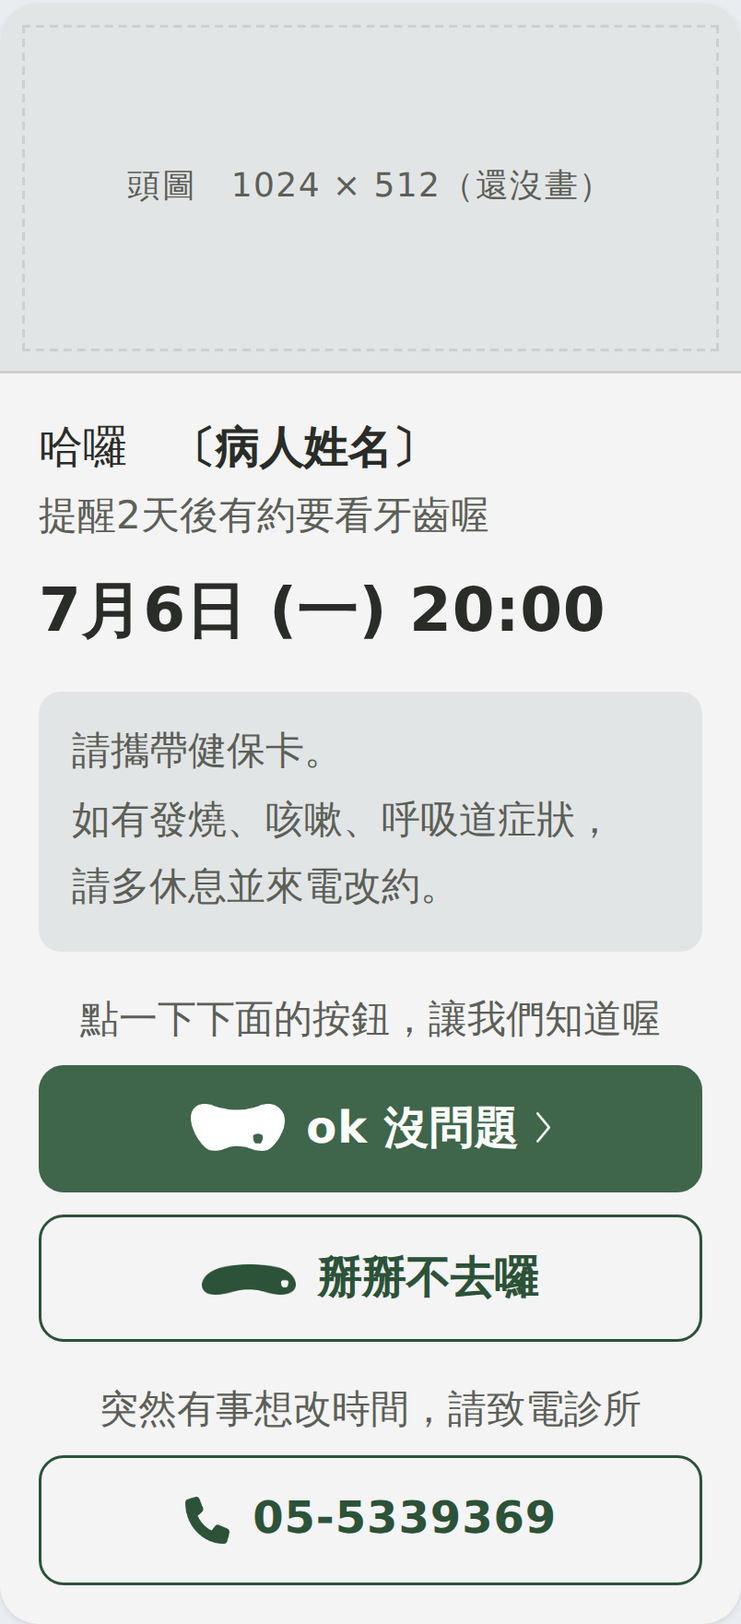
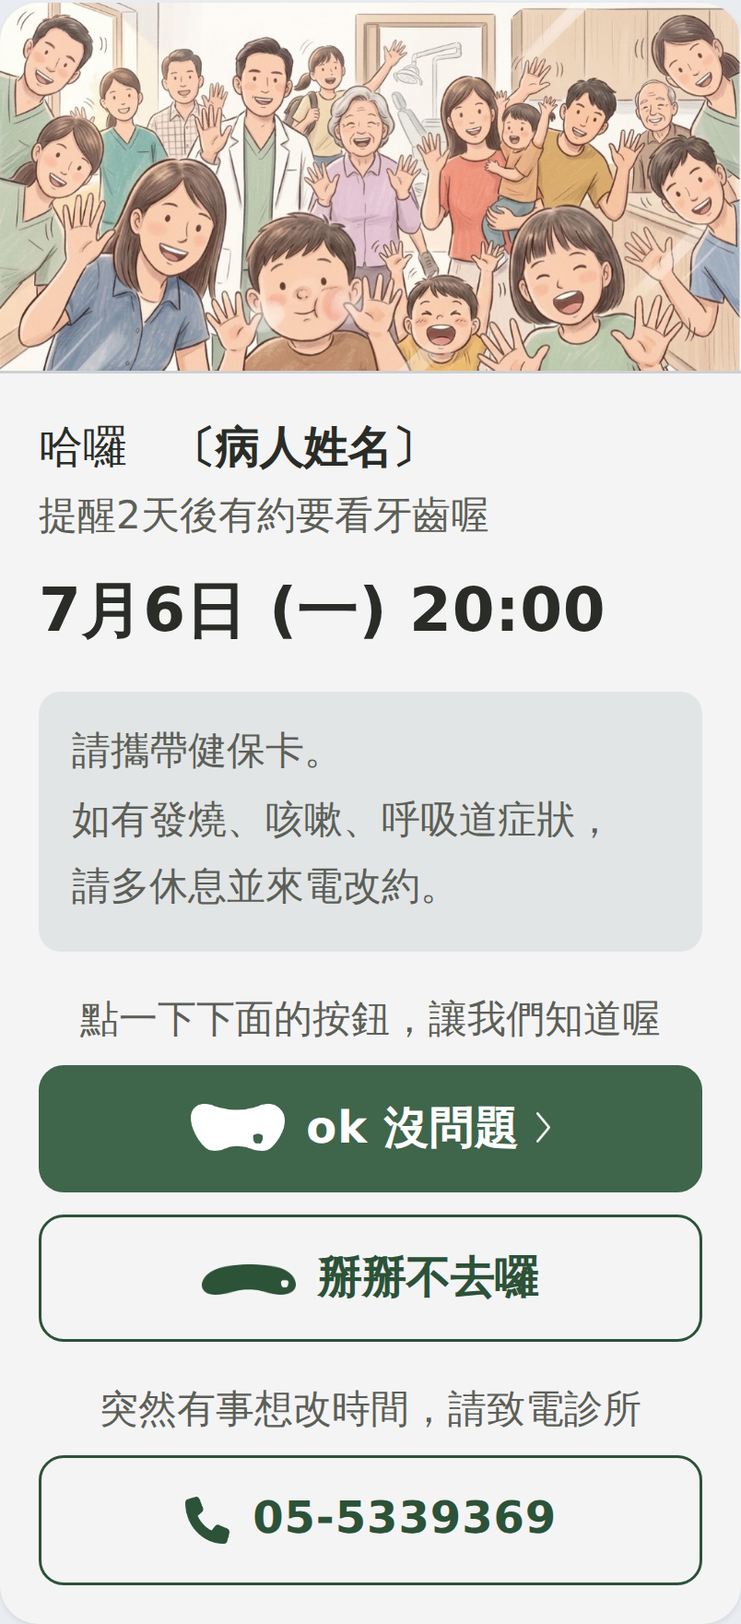
提醒卡：頭圖選定並接上（候診間一群人揮手）
使用者選定的圖，16:9 原檔 → 1024×512（＝ LINE 對 Flex 的 image 的上限）。

裁法是上 16 / 下 64 不是對稱的 40/40，掃過原檔的墨才定的：
・上面幾乎沒有餘裕 —— 深墨（人物線稿）從第 43 列就開始，對半裁只剩 3 列、
  頭會貼著上緣；裁 16 留 27 列 ＝ 成品的 4.1%，和原檔的 5.7% 同一個量級。
・下面每一列都是墨，但那是身體與手不是臉 —— 最低的下巴在第 660 列上下，
  裁到第 704 列碰不到任何一張臉，收緊反而讓臉在 268px 上大一點。
四個候選縮到真實的 268px 並排比過，只有 40/40 看得出頭髮被切，
其餘三個分不出來，所以判準回到「餘裕」與「臉的大小」這兩個量得出來的東西。

守門不照抄 bind-done 那支：那張圖四邊都是紙底，拿「邊緣亮度 vs 紙底」
就抓得到烘進去的白框；這一張四邊全是墨，同一道會一直誤報。改成四道 ——
長寬比、深墨離上緣 ≥12 列、邊緣要「又均勻又亮」才算白框、不超過 1024×1024。

width/height 屬性一定要寫：不寫的話圖還沒下載完高度是 0，
面板會報出一個比實際矮 134px 的卡片。

五個寬度（430／393／390／375／360）逐項和佔位符那一版相同：
卡片 268.0、高 585.9、頭圖 268×134、孤字 0、水平溢出 0、JS 錯誤 0、
兩組「一句話→按鈕」仍是 17.0/8.0。三支守門全過。

Claude-Session: https://claude.ai/code/session_01UiTa6aiLj4tvM4QQAkTm2r

Changed region(s): [[0.0, 0.0, 1.0, 0.2499]]

diff --git a/preview/line-remind/index.html b/preview/line-remind/index.html
@@ -115,18 +115,16 @@ h1{font-size:1rem;font-weight:700;letter-spacing:.02em}
      合成後亮度相同）。細節見 bind-done 那一頁與 channels/README 第 19-18 節。 */
 .pv-new{background:var(--card)}
 /* 頭圖：Flex 的 hero，size:full ＋ aspectRatio 2:1 ＝ 卡片滿寬、高度是寬的一半。
-   ⚠⚠ **圖還沒畫，這裡先把位置預留出來**（使用者 2026-09-04：「先預留圖卡的位置」）。
-     虛線那一塊就是 1024×512 會佔掉的地方 —— 實測 134px，佔整張卡的兩成。
-   ⚠ 佔位符的字用 CSS 的 content 產生，**不是文字節點** —— 不然它會被算進行數、
-     孤字判斷與紅線掃描裡（同 card-more-button 那一輪「繼續讀」那三個字的理由）。
-   ⚠ 真的接上圖之後，width/height 屬性一定要寫（＋ aspect-ratio）：不寫的話圖還沒
-     下載完高度是 0，面板會報出一個比實際矮 134px 的卡片。 */
-.pv-new .hero{display:block;width:100%;aspect-ratio:2/1;background:var(--paper);
-  border-bottom:1px solid var(--rule)}
-.pv-new .hero.ph{display:flex;align-items:center;justify-content:center;
-  outline:1px dashed var(--rule);outline-offset:-9px}
-.pv-new .hero.ph::before{content:"頭圖　1024 × 512（還沒畫）";font-size:12px;
-  color:var(--ink-soft);letter-spacing:.04em}
+   ✅ 使用者 2026-09-04 選定（「圖片選好了」）：候診間裡一群人在揮手 ——
+     病人、家屬、小孩、長輩與診所的人擠在同一個畫面裡，站上那套手繪語彙。
+     成品 hero-remind.jpg（1024×512），產圖 node drafts/channels/remind-hero-crop.mjs。
+   ⚠⚠ **這一則每次約診都會送一次**，同一個人一年看很多次 —— 所以它要**耐看**，
+     不能有太強的梗（綁定完成那張〈創造亞當〉是一輩子只看一次，條件不一樣）。
+     一群人揮手沒有笑點可以用完，這一點是對的。
+   ⚠⚠ **width/height 一定要寫**（＋ aspect-ratio）：不寫的話圖還沒下載完高度是 0，
+     面板會報出一個比實際矮 134px 的卡片。 */
+.pv-new .hero{display:block;width:100%;height:auto;aspect-ratio:2/1;
+  background:var(--paper);border-bottom:1px solid var(--rule);object-fit:cover}
 .pv-new .top{display:flex;align-items:center;gap:8px;padding:11px 14px 10px;
   border-bottom:1px solid var(--rule)}
 .pv-new .top img{width:20px;height:20px;border-radius:50%;display:block}
@@ -389,11 +387,11 @@ h1{font-size:1rem;font-weight:700;letter-spacing:.02em}
     text: { name: "只有字" },
     drop: { name: "拿掉" }
   };
-  /* 頭圖：使用者 2026-09-04「還是做個圖卡吧　比較趣味　先預留圖卡的位置」。
-     ⚠ 圖還沒畫，先留位置（虛線那一塊 ＝ 1024×512 會佔掉的高度）。
+  /* 頭圖：使用者 2026-09-04「還是做個圖卡吧　比較趣味　先預留圖卡的位置」，
+     同日稍晚選定了圖（「圖片選好了」「用這張圖片　合併成通知提醒頁面」）。
      ⚠⚠ 有頭圖時**卡片頂端那一行診所名就拿掉**（同綁定完成那一張：頭圖自己就是識別）；
        切到「不放圖」時它會回來，識別不會整個消失。 */
-  var HERO = { y: { name: "預留位置" }, n: { name: "不放圖" } };
+  var HERO = { y: { name: "放頭圖" }, n: { name: "不放圖" } };
 
   /* ---- 「點下去的感覺」三條尺（2026-09-04 深夜第四輪）------------------
      ① 叫他點的那一句。⚠ 文字是**我擬的**，這張卡其餘每一個字都是你寫的，
@@ -483,7 +481,7 @@ h1{font-size:1rem;font-weight:700;letter-spacing:.02em}
   function newHtml() {
     var h = '<div class="pv-hc pv-new" id="pv-body">'
       + (hr === "y"
-          ? '<div class="hero ph"></div>'
+          ? '<img class="hero" src="hero-remind.jpg" width="1024" height="512" alt="">'
           : '<div class="top"><img src="../../assets/icon-192.png" alt=""><b>芳仁牙醫診所</b></div>')
       /* ⚠⚠⚠ `--ctagap` 要設在**共同的父層**，不能設在那一句自己身上 ——
            用它的規則是 `.cta + .btn`（作用在**兄弟**上），而自訂屬性**只往下繼承、
@@ -981,12 +979,18 @@ h1{font-size:1rem;font-weight:700;letter-spacing:.02em}
       + "<br>③ 被自動取消時<b>會不會再發一則通知病人</b>（不通知的話他是到了門口才知道）。"
       + "<br>⚠ 還有一題舊的：<b>那顆確認鈕現在診所會看嗎？</b>"
       + "<hr>"
-      + "⚠ <b>頭圖還沒畫，先把位置預留出來</b>（你：「先預留圖卡的位置」）——"
-      + "虛線那一塊就是 <b>1024×512</b> 會佔掉的高度，面板上有實測。"
-      + "畫法照綁定完成那一張的流程（Gemini、你自己跑），提示詞另開一輪。"
-      + "<br>⚠⚠ 一個和綁定完成<b>不一樣</b>的條件：這一則<b>每一次約診都送一次</b>，"
-      + "同一個人一年會看到很多次 —— <b>要耐看，不要有太強的梗</b>"
-      + "（綁定完成那一張只在綁定當下出現一次，可以更用力）。"
+      + "✅ <b>頭圖已經接上了</b>（你 2026-09-04：「圖片選好了」）—— 候診間裡一群人在揮手，"
+      + "病人、家屬、小孩、長輩和診所的人在同一個畫面裡。"
+      + "成品 <code>hero-remind.jpg</code>（<b>1024×512</b>，＝ LINE 對 Flex 的 image 的上限），"
+      + "產圖 <code>node drafts/channels/remind-hero-crop.mjs</code>。"
+      + "<br>⚠ 原檔是 16:9，收成 2:1 要拿掉 80 列，<b>裁的是上 16 / 下 64 不是對稱的 40/40</b>："
+      + "上面深墨（人物的線稿）從第 43 列就開始，對半裁只剩 3 列、頭會貼著上緣；"
+      + "下面每一列都是墨，但那是<b>身體和手不是臉</b>（最低的下巴在第 660 列上下），"
+      + "收緊反而讓臉在 268px 上大一點。四個裁法縮到真實的 268px 並排比過。"
+      + "<br>⚠⚠ 一個和綁定完成<b>不一樣</b>的條件，選圖時就看著它："
+      + "這一則<b>每一次約診都送一次</b>，同一個人一年會看到很多次 —— <b>要耐看，"
+      + "不要有太強的梗</b>（綁定完成那一張只在綁定當下出現一次，可以更用力）。"
+      + "一群人揮手沒有笑點可以用完，這一點是對的。"
       + "<br>⚠ 有頭圖時卡片頂端那一行<b>診所名就拿掉了</b>（同綁定完成：頭圖自己就是識別）。"
       + "切到「不放圖」它會回來。"
       + "<hr>"

diff --git a/CLAUDE.md b/CLAUDE.md
@@ -2298,7 +2298,7 @@ topics/<spec>/         ← 產出。**不要手改**，重跑就沒了
 | 招呼圖卡的頭圖 | `drafts/line-hello/`（`generate.mjs`／`bubble.mjs`／`README.md`）→ `preview/line-hello/hero-zenmaru.jpg`，規格頁 `/preview/line-hello/`。✅ 定案 |
 | **綁定完成** | ✅ **2026-09-04 定稿**（使用者：「最後定稿的是這個」）：**Ⓗ 你整理的・圖卡 ＋ 有頭圖 ＋ 改約那一塊用淡藍 `.10` 的淡底**。Flex 的 JSON 在 **`drafts/channels/bind-done-card.json`**，規格頁 `/preview/line-bind-done/`（**切換條已拿掉**），守門 **`node drafts/channels/check-bind-done.mjs`**，圖片兩張（`node drafts/channels/bind-done-png.mjs`，加 `--chat` 出第二張）：`shot-bind-done.png`（卡片本身，804×1857，3×）與 **`shot-bind-done-chat.png`**（**在 LINE 裡長什麼樣的模擬**，1206×2427，3×）。⚠ 模擬那張要用 **430 寬**拍 —— 429 以下手機框會貼齊頁面兩邊、圓角與左右框線被拿掉。⚠ **換視窗寬度截圖之前要先量「要展示的那個東西有沒有跟著變」**：實測 390 與 430 卡片都是 **268.0px**，只有周邊留白差 12px（第 **19-21** 節）。⚠ **Ⓖ 沒有真的落選** —— 它是「廠商送不出 Flex Message」時的退路（同一份內容一字不差），規格頁最底下仍然畫著它。⚠⚠ **兩塊淡底在 JSON 裡要寫合成後的實色**（警示 `#EEE5E6` ＝ 磚紅 .09、改約 `#E2E8EF` ＝ 淡藍 .10），不要寫半透明。⚠ **沒有拆成 body ＋ footer**（招呼卡那樣拆是因為中間有 separator，這一張兩塊方塊之間刻意沒有分隔線）。推導在第 **19-20** 節。以下是走到定稿的過程 —— **提案中**：`/preview/line-bind-done/`（**八案**，2026-09-03 開；**Ⓖ／Ⓗ 是使用者 2026-09-04 自己整理的那一份**，Ⓖ 純文字、Ⓗ 同一份做成圖卡，帶進三件新事實：提醒**要回覆確認**、**24 小時沒回應系統會自動取消**並遞補、家人綁定**要洽櫃檯**）。推導在 `drafts/channels/README.md` **第十九節**（09-04 那一輪在 **19-12**），定稿文字在 `drafts/line-auto-reply/README.md` 第 24-2 節「貳」。⚠ 使用者挑完才寫 Flex 的 JSON。⚠⚠ **時間的說法 2026-09-04 定案「看診前 48 小時」**，切換條上那一排已經收掉；**但招呼圖卡仍然寫「看診前2天」**（使用者自己逐字寫的、已定案），兩則目前不一致，**要統一得他點頭**。⚠ 這個 48 小時和「看診日 2 天前（不含假日）」是兩個不同的數字（提醒時機 vs 改約期限），**不要順手改成一致**。⚠⚠ 2026-09-04 再兩件（第 **19-13** 節）：「這裡沒有專人即時回覆訊息」**搬到改約那一段前面**（它是「為什麼要打電話」的前提）；24 小時那一段接上一把**強調**的尺（`?e=`），**兩種容器的四格不一樣** —— LINE 的**純文字訊息沒有粗體也沒有顏色**，只剩空行與記號，Flex 圖卡才做得到加粗／換色／淡底方塊。⚠⚠ 2026-09-04 再兩件（第 **19-15** 節）：**圖卡那一側定案「淡底方塊」**（切換條上收掉、寫死；純文字那一側還沒定案、那一排還在）；**改約那一句換成使用者的寫法**「約診更改或取消，最晚請於看診日前 2 天（不含假日）、於診所開診時段來電變更」——「最晚」把期限講死，**「開診時段」取代「週一至週五」**（國定假日休不休診還沒問到，寫「開診時段」就不必替診所答那一題）。⚠ 其餘六案仍是舊寫法，**刻意沒動**，等他挑完哪一案再統一。⚠⚠ 2026-09-04 再一件（第 **19-16** 節）：**改約那一段也做成淡底方塊**，底色四選一（紙灰／品牌綠／深綠松／同上面），**兩塊之間那條分隔線拿掉了**。⚠⚠ **綠與深綠松是 `.16` 不是 `.09`** —— 量過，九分之一濃時四個底色全部落在 **1.1 階**之內（L\* 90.6~91.7），**四格長得一模一樣、那把尺沒有意義**；`.16` 才讀得出是綠的，代價是比上面那塊磚紅重約 4 階。**通則：一把尺給出去之前先算四格彼此差多少，差不出來的尺比沒有尺還糟**。⚠⚠ 2026-09-04 再三件（第 **19-17** 節）：**加了淡藍、深綠松那一格拿掉**（深綠松 `.16` 是 L\* 86.2・彩度 2.5，和品牌綠的 87.6・2.7 分不出來）；淡藍**不能用官方色票那支** `#3C596B`（`.16` 彩度只剩 2.5，讀起來是灰的），取的是**齒顎矯正那支套色** `#4478b5`（`.16` 彩度 6.3，站上唯一淡開之後還讀得出是藍的）——**已知取捨：那是矯正的顏色**，但這一則不在站上也不在任何科別頁裡，不會和標記撞在一起。**通則的第二半：每一格還要撐得起它自己的名字，判準是彩度不是色相。**⚠ **數字前後那幾個半形空格拿掉了**（我照站上內文的習慣加的，他自己寫的那一份沒有），「（不含假日）」的**全形括號換成半形**（全形一組吃掉約 19px）。⚠⚠ **Ⓗ 那兩段之間的空行換成段落間距**：`\n\n` 是一整行 **24.5px**，拆成兩個 `text` ＋ 一個 `margin` 是 **8px**。**通則：Flex 裡兩段的距離有兩把工具，不要只會用空行**（`margin` 有 xs 4 ~ xxl 24 六階）；**Ⓖ 純文字那一側沒有這把工具，只有空行**。⚠⚠ 2026-09-04 再兩件（第 **19-18** 節）：**淡藍收到 `.10`**（使用者：「淡藍色看過去比上面的淡紅色還濃　要調成一樣的」）——「一樣濃」＝ **兩塊合成到卡色之後的 L\* 相同**，基準是磚紅 `.09` 的 L\* 91.6，反解出 a = .101。⚠⚠⚠ **而只有藍做得到，品牌綠與深綠松兩格因此都拿掉了**：壓到同一個 L\* 之後剩下的彩度是**淡藍 4.06**／磚紅 3.29／官方藍 1.50／品牌綠 1.37／深綠松 1.19，而**紙灰自己就是 1.18** ——「等重的綠」畫出來就是紙灰那一格。尺剩三格（紙灰／淡藍 .10／同上面）。**通則的第三半：「看得出顏色」與「和旁邊等重」是兩個要求，只有夠飽和的色相同時滿足得了；判斷方法是把每一支色壓到目標 L\* 再看誰的彩度還在。**⚠ **Ⓗ 那一對全形「」拿掉了，改成把選單名加粗**（使用者：「「」的全形也有很大的空格」）——`「`／`」` 各佔一整個全形字寬但墨只有角落那一撇，一對吃掉 **28.3px**（那一行 183.8 → 155.5）。Flex 就是一個 `span` 加 `weight: bold`，顏色不動。⚠⚠ **Ⓖ 純文字那一對留著，不是漏改** —— 純文字沒有粗體，拿掉引號就標示不出那是選單名。⚠ 實作：`<b>` **不可以寫進資料裡**（`spec()` 要拿同一份字串比對孤字），資料維持純文字、多一個 `strong` 欄位，`render()` 那一層才包。⚠ 2026-09-04 **存成圖片了**（第 **19-19** 節）：`node drafts/channels/bind-done-png.mjs` → `preview/line-bind-done/shot-card-{pa,bl,br}.png`（圖卡三格底色）、`shot-text.png`（純文字泡泡）、`shot-cards.png`（三格並排）。⚠⚠ **出在 `preview/` 不是 `drafts/`** —— drafts 進不了 `_site`，而使用者要的是「也存在網路上」（招呼卡那支 `card-png.mjs` 出在 drafts/，兩支落點不同是刻意的）。⚠⚠ **拍的是提案頁自己那張卡**，所以**那一頁改了就要重跑**，不然圖會開始說謊 |
 | 綁定完成的頭圖 | ✅ **2026-09-03 第四版定案**（使用者：「很不錯，就用這個圖吧」）—— 成品 `preview/line-bind-done/hero-bind.jpg`（**1024×512**，`node drafts/bind-done-hero-crop.mjs`，原檔 `drafts/bind-done-v4-src.jpg`），已接進提案頁 Ⓑ 那一案。定稿提示詞與逐輪推導在 **`drafts/line-bind-done-prompt.md`** —— 〈創造亞當〉的診間版（Gemini 出圖，使用者自己跑，走了四版）。⚠⚠⚠ **不要把原作那個「上帝在上」抹平成兩人等高** ——第一版就是這樣被退回的（寓意沒了，而且兩個成年人同高對指會被讀成醫病關係不單純）：**一側是一團人、飄著、比較高，另一側一個人躺著、比較低**，這個不對等就是那張畫的梗。⚠ 但**不對等只能靠位置給、不可以靠肌肉張力給** —— 第三版把病患的手寫成鬆垮的，整個人看起來像喝醉（＝麻醉或鎮靜的聯想）。⚠ 臉一律照站上那一套（有膚色、眉毛、鼻子、有表情的嘴），**不隨風格參考圖走**。逐輪紀錄與六條驗收在那一份，通則在 ILLUSTRATION.md 第十三節 |
-| **提醒卡（看診前 48 小時）** | ⏳ **2026-09-04 開了提案頁 `/preview/line-remind/`（兩案 ＋ 四把尺，還沒定案）**。⚠⚠ **文案 2026-09-04 晚間換成使用者自己寫的**（哈囉／病人名字／提醒2天後有約要看牙齒喔／日期／按鈕「ok 沒問題」＋logo／須知只留兩條），**加了頭圖但圖還沒畫、先預留位置**。⚠⚠⚠ **取消鈕那一題的分析結論：建議留，但維持文字鈕** —— 真正重要的理由只有一個：**拿掉之後「來不了」和「沒看到訊息」在診所眼裡會變成同一件事**（24 小時沒回應一律自動取消），而診所對這兩種人的處理本來就不一樣（重要療程會打電話追、定期檢查就當他不想來）—— 那顆按鈕是目前唯一分得出來的東西。次要理由：誤按沒有回頭路。**「兩顆會稀釋主要動作」成立，所以留成文字鈕不是實心第二顆**（現況那一顆本來就是文字鈕，那一點現況是對的）。⚠⚠ **「須知寫來電改約、底下又有按鈕」不是二選一** —— 解法是把兩件事講成兩件事：**按鈕＝告訴我們你不會來、電話＝重新約時間**，寫成一前一後就不打架了。**通則：兩個管道看起來打架時，先問它們是不是同一個動作。**⚠⚠⚠ **「2天後」有事實風險**：真截圖那一則是 7/3（五）送、約診 7/6（一）＝ **3 天**，寫死「2天後」對那位病人是錯的，週一週二的約診都會對不上。三條路（維持但要廠商保證固定／**把天數拿掉**，日期本來就在下一行且最大／讓系統填）已經列給他挑 —— **沒有自己改掉他的字**。**通則：使用者寫的字裡有一個會出錯的事實時，照寫、把證據攤開、給選項，不要自己改也不要不講。**⚠⚠ **他把「戴口罩」拿掉了**（現況第 1 條有），照做了但那是**政策改變不是文案精簡，要醫師點頭**。⚠ **主鈕做成可點的 box 不是 `button`**（Flex 的 button 不支援圖示），logo 用招呼卡已產好的 `mark-white.png`（34px），沒有另產一份。⚠ **有頭圖就把頂端那行診所名拿掉**（同綁定完成），切到不放圖它會回來。⚠⚠ **開場那一句要拆兩行**（「哈囉　〔名字〕」／「提醒2天後…」）—— 他原句把變數夾在中間，名字一長會把「喔」擠成孤字；拆開之後 8 個字的名字都還在寬度內。**用字一個都沒改。**⚠ 量到：現況 615px(73%)／新版全留**含頭圖 789px(94%)**／全砍 378px(45%)，頭圖自己就 134px。⚠⚠ 頭圖畫的時候有一個和綁定完成不一樣的條件：**這一則每次約診都送一次，同一個人一年看很多次 —— 要耐看，不要有太強的梗**。⚠⚠ 這一頁是使用者約好要定**版型與那顆確認的按鈕**的地方（第 19-12 節），定完再回頭看綁定完成那一則要不要多寫一句。推導在 `drafts/channels/README.md` **第二十節**。⚠⚠⚠ **`drafts/channels/reminder-card.json` 是 2026-09-02 的舊版，不要拿給廠商** —— 它沒有 24 小時那一段、改約那句是舊寫法、日期還帶年份；**使用者挑完才會重寫**。⚠⚠ **24 小時自動取消那件事是「這一張卡」的事**：那 24 小時是從這一則送出的那一刻開始算的，綁定完成那一則只是先告訴他有這回事 —— 所以非寫在提醒卡上不可，不然病人是在不知情的狀態下被計時。⚠⚠ **現況那一張是從使用者 2026-09-04 的真截圖逐像素量出來重做的**（內文 16px、姓名與日期 22px、內距 22px、標題列 43.7、按鈕 60、「⚠ 就診須知 ⚠」**靠右不是置中**）——⚠⚠⚠ **第一版是「照描」的，字級全部猜小了（內文猜成 14、內距猜成 13），把現況量成 438px，結論整個錯**。**通則：照截圖描一份和量一份是兩件事** —— 描出來的很像，數字全錯，而後面每一個判斷都建立在那些數字上。重量之後：現況 615px（73%）、新版全留 696px（82%）、全砍 460px（55%），**新版只多 81px**。⚠⚠⚠ **那張截圖是診所端的後台不是病人手機**（標題是病人名字、有「使用手動聊天」與「已讀」），所以它的卡片 348px **不是病人看到的寬度**；⚠ 而 **268 這個數字我們從來沒有在病人手機上量過**（是招呼卡那一輪的工作值）—— 方向是安全的（真的更寬只是保守），但**要一張病人手機的截圖才收得掉**。⚠⚠⚠ **它不是 48 小時送的**：截圖上 7/3（五）送、約診 7/6（一）＝ 3 天。48 小時前是週六、診所沒開 —— 可能是**系統會避開休診日**（那 19-12 那題有一半有答案了），也可能是**固定 3 天前**。**一個樣本推不出通則，要再看一兩則不同星期的**，或直接看後台排程。⚠ 順帶：協議期限是 7/2（四），7/3 送仍然晚一個開診日 —— 8-1 那個矛盾還在，只是沒那麼嚴重。⚠⚠ **有變數的那一行不能手動斷行**（`{{patient}}` 是系統填的）—— 做法是把「提醒您，」單獨一行、讓變數那一行從行首開始，名字 8 個字以內都不會折。⚠ 日期只要求兩件（拿掉年份、月日改中文），**括號維持廠商現在的半形** —— 要求的改動愈小愈可能真的改到。⚠ 「沒有專人＋改約期限＋電話」那一整塊**逐字沿用綁定完成那一則**（淡藍 `.10`），同一件事兩則用同一組字。⚠ 圖三張 `node drafts/channels/remind-png.mjs`（加 `--old`／`--chat`），**拍的是提案頁自己那張卡，那一頁改了就要重跑**。⚠ 時機**維持 48 小時**（第 15-9 節已結案，不要再提拆兩次或用開診日算）。時間換算 `timing.mjs`。⚠⚠⚠ **2026-09-04 深夜第三輪：兩塊淡底整個拿掉、兩顆新按鈕**（第 **20-12** 節）——使用者六件逐字：請攜帶健保卡／如有發燒…請多休息並來電改約／**粉紅底整個拿掉**／取消鈕**加 logo**（shape_r2c3 嘴巴倒過來）／新增「臨時有事須改約，請致電診所」＋**電話鈕**／**藍灰底整個拿掉**；稍晚兩件：**次要那顆的字改成他寫的「掰掰不去囉」**（原本是我擬的「我不能到」）、**電話鈕上面那一句改成「突然有事想改時間，請致電診所」**（原本是我擬的「臨時有事須改約」）。⚠⚠ 至此**這張卡上每一個字都是使用者自己寫的**，我擬的兩處都被換掉了，方向是同一個：**「須」是規定的口氣、「改約」是診所的行話**，他的版本是病人自己會講的話。**通則：我們寫得出正確的句子，寫不出他那種口氣 —— 文案的最後一哩要留給他。**⚠⚠⚠ **「牙洞怎麼調」的答案是不必調** —— 那顆標誌是單一路徑、洞靠 `fill-rule: evenodd` 挖的，**整張上下翻**（繞自己 bbox 中線）洞就跟著翻到右葉下半、仍然被包著；**只翻外框、洞留原位的話，洞會落在形狀外面、靜靜地消失而且不報錯**。產生器 `remind-marks.mjs` 因此加了守門（逐列數「被墨包住的透明像素」，<30 就 throw，實測 1502 ✓）。⚠ **尺寸是算出來的不是挑的**：主鈕那顆 34px 寬→高 16.8，所以 **nogo 也給 34px**（高 11.0）、**話筒給 16.8px 寬**（＝同高），三顆才像一組。⚠⚠ **取消鈕做成線框鈕不是第二顆綠鈕** —— 「兩顆會稀釋主要動作」成立，所以同框同 logo、但底是空的。⚠⚠⚠ **拿掉那兩塊各帶走一件事實，已經寫在頁面底下給他看**：粉紅底帶走「24 小時沒回應會自動取消並遞補」（**那 24 小時是從這一則送出算的，拿掉之後病人是在不知情的狀態下被計時**；給了兩個補救、**那把尺留著**、沒有自己加回去）；藍灰底帶走「沒有專人」與「看診日前 2 天（不含假日）」——**後者拿掉其實是對的**（這張卡 48 小時才送，期限那時已經過了，它的家是綁定完成那一則）。⚠⚠ **電話做成按鈕不違反 09-04 那條通則** —— 那一條禁的是「說明句裡的號碼穿按鈕的衣服」，而這裡上一句「請致電診所」本身就是叫他現在打。**通則：判斷一個東西該不該做成按鈕，看它上一句話。**⚠ 上一輪那句 `fine`（按了我們會打電話）拿掉了 —— 現在是「請致電診所」在做同一件事，留著會兩句搶同一個位置。⚠ 量測（430／393／390／375／360）：卡片 268.0、高 **563.8**、孤字 0、水平溢出 0、JS 錯誤 0、最寬一行 205.2（可用 240）、八個對比 0 個不過（主鈕 6.62／兩顆線框鈕 8.06／那一句 5.92）、切換條 24.0%／收起 5.1%。⚠⚠ **新版現在比現況矮**（563.8 vs 615）**而且還帶著頭圖** ——上一輪「只多 81px」那句作廢。⚠⚠⚠ **2026-09-04 深夜第四輪：「少了要病患點下去的感覺」**（第 **20-13** 節）——使用者：「原來的版本有說點擊回覆，按鈕上也有手勢提示，你們想一下怎麼弄。」⚠⚠⚠ **拆開來是三件各自獨立的事**（同第九節第 17 條那個淡出）：**①有沒有一句話開口叫他點**（現況有、我們拿掉了，**影響最大** —— 這一則的工作就是「請你回覆」，按鈕再像按鈕也不如一句話直接開口）、**②按鈕上的「往前走」記號**（現況是 👉）、**③按鈕看起來像不像鈕**（現況是藥丸，我們是圓角方框，而**方框在這一站是「框」的語彙**、框不見得等於可以按）。**修一個不會治好另外兩個。**⚠⚠⚠ **還有第四件而且畫面上補不回來**：主鈕是「可點的 box」不是 Flex 的 `button`（button 放不進圖示，而使用者要 logo），**box 沒有按壓效果** —— 「點下去的感覺」有一半是按下那一瞬間的回饋，那一半為了 logo 已經換掉了。⚠ **LINE 對可點的 box 會不會給按壓反白，我們沒有實機驗過**、文件也沒寫 ——**加進廠商那幾題**；「主鈕的形狀」最後一格「真的按鈕（沒 logo）」就是這個取捨，**擺出來讓他比、不是建議**。三條尺 `?c=`／`?g=`／`?s=`，**預設開在建議的那一組**（`c=b`＋`g=main`＋`s=box`）。⚠⚠ **角形用站上自己那一條**（首頁「往下滑」、「回到最上面」、文章卡「繼續讀」同一條，**把 x/y 對調轉成朝右**），**不要打一個「›」** —— 那個字在 Android 與 iOS 上長得不一樣、粗細也對不上。⚠⚠ **筆畫的形狀 `getBBox()` 量不到**（不含 stroke），外框要自己算；產生器的「檔案太小＝空圖」門檻因此從位元組改成**看墨佔多少**（角形只有 21%）。⚠ **角形跟著「字」走不是跟著標誌走**：16px 的字配 11px 高 → 5.3px 寬 ——**三顆圖示的基準各不相同**（nogo 34px 寬跟著標誌、話筒 16.8px 寬＝和主鈕標誌同高），**那不是漏改成一致**。⚠⚠ **現況那句話搬到 268px 會折出孤字「診 ↓」**（三個寬度都是）—— 那句是在**診所端後台 348px 的框**裡看的，**再一次證明病人那一側的寬度要自己量**。⚠ 量到：建議那一組 601.5px（仍比現況 615 矮、而且帶著頭圖）、孤字 0、水平溢出 0、JS 錯誤 0。⚠ **切換條收掉三把已定案的尺**（頭圖／24 小時／就診須知，手機一次只放得下四條），**網址參數仍然吃得到**（`?w=box` 把 24 小時放回來）。⚠⚠⚠ **2026-09-04 深夜第五輪：「那一句和按鈕的間隔很大」**（第 **20-14** 節）——⚠⚠⚠ **量出來問題不是「太大」，是「上下一樣大」**：上面（方塊→字面）17.0、下面（字面→按鈕）**18.8**，**下面反而還大一點**，那句話因此浮在正中間、眼睛沒有理由把它歸給按鈕（接近律）。**所以要改的是上下的比例，不是兩邊一起縮** ——**上面那 17.0 一個字都沒動**（它是「就診須知」與「請你回覆」的分界）。尺 `?p=` 量的是**字面到按鈕**：18.8（1.11）／12（0.70）／**8（0.47，預設）**／5（0.29）。⚠⚠ **看得到的距離不等於 `margin`** —— 行高 1.7 讓字面下方多 **4.8px 的半行距**，`margin-top:14` 畫出來是 18.8；margin 由 `calc(var(--ctagap) - 4.8px)` 扣掉，面板每一格現場重量。**通則：「兩個東西看起來多遠」要量墨到墨，不是盒到盒** ——中文的行高把 3~5px 藏在字的上下，寫 margin 的人看不到。⚠ **電話那一句吃同一條規則、跟著一起動**：這張卡有**兩組「一句話＋一顆按鈕」**，間隔不一致會被讀成兩種不同的關係。⚠⚠⚠ **踩到一個坑：自訂屬性不會傳給兄弟** —— 第一版把 `--ctagap` 設在那一句自己身上，而用它的規則是 `.cta + .btn`（作用在**兄弟**上），於是一路退回預設值：**按了沒反應、不報錯、四格量出來一模一樣**（同第九節第 24、25 條那種病，**只有拿數字量才看得出來**）。**通則：一個變數要影響兄弟，就要設在它們的父層。**⚠ 量到：卡片 268.0、高 **585.9**、孤字 0、水平溢出 0、JS 錯誤 0、兩組都是 17.0/8.0；切換條 **24.7%**（「叫他點的那句」那一列的**標籤**縮短才從 27.5% 收回一列，**卡片上的字一個都沒動**）。⚠ **切換條再收掉「掰掰不去囉」那把尺**（他已說「這樣很好」），`?n=text`／`?n=drop` 仍然吃得到。⚠ 稍晚一件：**「突然有事想改時間，請致電診所」改置中**（使用者指定）——改完**兩組「一句話＋一顆按鈕」的排法完全一致**（兩句都置中、兩顆按鈕本來就置中）；只動 `text-align`，高度、折行、間隔一個數字都沒變 |
+| **提醒卡（看診前 48 小時）** | ⏳ **2026-09-04 開了提案頁 `/preview/line-remind/`（兩案 ＋ 四把尺，還沒定案）**。⚠⚠ **文案 2026-09-04 晚間換成使用者自己寫的**（哈囉／病人名字／提醒2天後有約要看牙齒喔／日期／按鈕「ok 沒問題」＋logo／須知只留兩條），**加了頭圖**（2026-09-04 稍晚使用者選定並接上，見本列最後一段）。⚠⚠⚠ **取消鈕那一題的分析結論：建議留，但維持文字鈕** —— 真正重要的理由只有一個：**拿掉之後「來不了」和「沒看到訊息」在診所眼裡會變成同一件事**（24 小時沒回應一律自動取消），而診所對這兩種人的處理本來就不一樣（重要療程會打電話追、定期檢查就當他不想來）—— 那顆按鈕是目前唯一分得出來的東西。次要理由：誤按沒有回頭路。**「兩顆會稀釋主要動作」成立，所以留成文字鈕不是實心第二顆**（現況那一顆本來就是文字鈕，那一點現況是對的）。⚠⚠ **「須知寫來電改約、底下又有按鈕」不是二選一** —— 解法是把兩件事講成兩件事：**按鈕＝告訴我們你不會來、電話＝重新約時間**，寫成一前一後就不打架了。**通則：兩個管道看起來打架時，先問它們是不是同一個動作。**⚠⚠⚠ **「2天後」有事實風險**：真截圖那一則是 7/3（五）送、約診 7/6（一）＝ **3 天**，寫死「2天後」對那位病人是錯的，週一週二的約診都會對不上。三條路（維持但要廠商保證固定／**把天數拿掉**，日期本來就在下一行且最大／讓系統填）已經列給他挑 —— **沒有自己改掉他的字**。**通則：使用者寫的字裡有一個會出錯的事實時，照寫、把證據攤開、給選項，不要自己改也不要不講。**⚠⚠ **他把「戴口罩」拿掉了**（現況第 1 條有），照做了但那是**政策改變不是文案精簡，要醫師點頭**。⚠ **主鈕做成可點的 box 不是 `button`**（Flex 的 button 不支援圖示），logo 用招呼卡已產好的 `mark-white.png`（34px），沒有另產一份。⚠ **有頭圖就把頂端那行診所名拿掉**（同綁定完成），切到不放圖它會回來。⚠⚠ **開場那一句要拆兩行**（「哈囉　〔名字〕」／「提醒2天後…」）—— 他原句把變數夾在中間，名字一長會把「喔」擠成孤字；拆開之後 8 個字的名字都還在寬度內。**用字一個都沒改。**⚠ 量到：現況 615px(73%)／新版全留**含頭圖 789px(94%)**／全砍 378px(45%)，頭圖自己就 134px。⚠⚠ 頭圖畫的時候有一個和綁定完成不一樣的條件：**這一則每次約診都送一次，同一個人一年看很多次 —— 要耐看，不要有太強的梗**。⚠⚠ 這一頁是使用者約好要定**版型與那顆確認的按鈕**的地方（第 19-12 節），定完再回頭看綁定完成那一則要不要多寫一句。推導在 `drafts/channels/README.md` **第二十節**。⚠⚠⚠ **`drafts/channels/reminder-card.json` 是 2026-09-02 的舊版，不要拿給廠商** —— 它沒有 24 小時那一段、改約那句是舊寫法、日期還帶年份；**使用者挑完才會重寫**。⚠⚠ **24 小時自動取消那件事是「這一張卡」的事**：那 24 小時是從這一則送出的那一刻開始算的，綁定完成那一則只是先告訴他有這回事 —— 所以非寫在提醒卡上不可，不然病人是在不知情的狀態下被計時。⚠⚠ **現況那一張是從使用者 2026-09-04 的真截圖逐像素量出來重做的**（內文 16px、姓名與日期 22px、內距 22px、標題列 43.7、按鈕 60、「⚠ 就診須知 ⚠」**靠右不是置中**）——⚠⚠⚠ **第一版是「照描」的，字級全部猜小了（內文猜成 14、內距猜成 13），把現況量成 438px，結論整個錯**。**通則：照截圖描一份和量一份是兩件事** —— 描出來的很像，數字全錯，而後面每一個判斷都建立在那些數字上。重量之後：現況 615px（73%）、新版全留 696px（82%）、全砍 460px（55%），**新版只多 81px**。⚠⚠⚠ **那張截圖是診所端的後台不是病人手機**（標題是病人名字、有「使用手動聊天」與「已讀」），所以它的卡片 348px **不是病人看到的寬度**；⚠ 而 **268 這個數字我們從來沒有在病人手機上量過**（是招呼卡那一輪的工作值）—— 方向是安全的（真的更寬只是保守），但**要一張病人手機的截圖才收得掉**。⚠⚠⚠ **它不是 48 小時送的**：截圖上 7/3（五）送、約診 7/6（一）＝ 3 天。48 小時前是週六、診所沒開 —— 可能是**系統會避開休診日**（那 19-12 那題有一半有答案了），也可能是**固定 3 天前**。**一個樣本推不出通則，要再看一兩則不同星期的**，或直接看後台排程。⚠ 順帶：協議期限是 7/2（四），7/3 送仍然晚一個開診日 —— 8-1 那個矛盾還在，只是沒那麼嚴重。⚠⚠ **有變數的那一行不能手動斷行**（`{{patient}}` 是系統填的）—— 做法是把「提醒您，」單獨一行、讓變數那一行從行首開始，名字 8 個字以內都不會折。⚠ 日期只要求兩件（拿掉年份、月日改中文），**括號維持廠商現在的半形** —— 要求的改動愈小愈可能真的改到。⚠ 「沒有專人＋改約期限＋電話」那一整塊**逐字沿用綁定完成那一則**（淡藍 `.10`），同一件事兩則用同一組字。⚠ 圖三張 `node drafts/channels/remind-png.mjs`（加 `--old`／`--chat`），**拍的是提案頁自己那張卡，那一頁改了就要重跑**。⚠ 時機**維持 48 小時**（第 15-9 節已結案，不要再提拆兩次或用開診日算）。時間換算 `timing.mjs`。⚠⚠⚠ **2026-09-04 深夜第三輪：兩塊淡底整個拿掉、兩顆新按鈕**（第 **20-12** 節）——使用者六件逐字：請攜帶健保卡／如有發燒…請多休息並來電改約／**粉紅底整個拿掉**／取消鈕**加 logo**（shape_r2c3 嘴巴倒過來）／新增「臨時有事須改約，請致電診所」＋**電話鈕**／**藍灰底整個拿掉**；稍晚兩件：**次要那顆的字改成他寫的「掰掰不去囉」**（原本是我擬的「我不能到」）、**電話鈕上面那一句改成「突然有事想改時間，請致電診所」**（原本是我擬的「臨時有事須改約」）。⚠⚠ 至此**這張卡上每一個字都是使用者自己寫的**，我擬的兩處都被換掉了，方向是同一個：**「須」是規定的口氣、「改約」是診所的行話**，他的版本是病人自己會講的話。**通則：我們寫得出正確的句子，寫不出他那種口氣 —— 文案的最後一哩要留給他。**⚠⚠⚠ **「牙洞怎麼調」的答案是不必調** —— 那顆標誌是單一路徑、洞靠 `fill-rule: evenodd` 挖的，**整張上下翻**（繞自己 bbox 中線）洞就跟著翻到右葉下半、仍然被包著；**只翻外框、洞留原位的話，洞會落在形狀外面、靜靜地消失而且不報錯**。產生器 `remind-marks.mjs` 因此加了守門（逐列數「被墨包住的透明像素」，<30 就 throw，實測 1502 ✓）。⚠ **尺寸是算出來的不是挑的**：主鈕那顆 34px 寬→高 16.8，所以 **nogo 也給 34px**（高 11.0）、**話筒給 16.8px 寬**（＝同高），三顆才像一組。⚠⚠ **取消鈕做成線框鈕不是第二顆綠鈕** —— 「兩顆會稀釋主要動作」成立，所以同框同 logo、但底是空的。⚠⚠⚠ **拿掉那兩塊各帶走一件事實，已經寫在頁面底下給他看**：粉紅底帶走「24 小時沒回應會自動取消並遞補」（**那 24 小時是從這一則送出算的，拿掉之後病人是在不知情的狀態下被計時**；給了兩個補救、**那把尺留著**、沒有自己加回去）；藍灰底帶走「沒有專人」與「看診日前 2 天（不含假日）」——**後者拿掉其實是對的**（這張卡 48 小時才送，期限那時已經過了，它的家是綁定完成那一則）。⚠⚠ **電話做成按鈕不違反 09-04 那條通則** —— 那一條禁的是「說明句裡的號碼穿按鈕的衣服」，而這裡上一句「請致電診所」本身就是叫他現在打。**通則：判斷一個東西該不該做成按鈕，看它上一句話。**⚠ 上一輪那句 `fine`（按了我們會打電話）拿掉了 —— 現在是「請致電診所」在做同一件事，留著會兩句搶同一個位置。⚠ 量測（430／393／390／375／360）：卡片 268.0、高 **563.8**、孤字 0、水平溢出 0、JS 錯誤 0、最寬一行 205.2（可用 240）、八個對比 0 個不過（主鈕 6.62／兩顆線框鈕 8.06／那一句 5.92）、切換條 24.0%／收起 5.1%。⚠⚠ **新版現在比現況矮**（563.8 vs 615）**而且還帶著頭圖** ——上一輪「只多 81px」那句作廢。⚠⚠⚠ **2026-09-04 深夜第四輪：「少了要病患點下去的感覺」**（第 **20-13** 節）——使用者：「原來的版本有說點擊回覆，按鈕上也有手勢提示，你們想一下怎麼弄。」⚠⚠⚠ **拆開來是三件各自獨立的事**（同第九節第 17 條那個淡出）：**①有沒有一句話開口叫他點**（現況有、我們拿掉了，**影響最大** —— 這一則的工作就是「請你回覆」，按鈕再像按鈕也不如一句話直接開口）、**②按鈕上的「往前走」記號**（現況是 👉）、**③按鈕看起來像不像鈕**（現況是藥丸，我們是圓角方框，而**方框在這一站是「框」的語彙**、框不見得等於可以按）。**修一個不會治好另外兩個。**⚠⚠⚠ **還有第四件而且畫面上補不回來**：主鈕是「可點的 box」不是 Flex 的 `button`（button 放不進圖示，而使用者要 logo），**box 沒有按壓效果** —— 「點下去的感覺」有一半是按下那一瞬間的回饋，那一半為了 logo 已經換掉了。⚠ **LINE 對可點的 box 會不會給按壓反白，我們沒有實機驗過**、文件也沒寫 ——**加進廠商那幾題**；「主鈕的形狀」最後一格「真的按鈕（沒 logo）」就是這個取捨，**擺出來讓他比、不是建議**。三條尺 `?c=`／`?g=`／`?s=`，**預設開在建議的那一組**（`c=b`＋`g=main`＋`s=box`）。⚠⚠ **角形用站上自己那一條**（首頁「往下滑」、「回到最上面」、文章卡「繼續讀」同一條，**把 x/y 對調轉成朝右**），**不要打一個「›」** —— 那個字在 Android 與 iOS 上長得不一樣、粗細也對不上。⚠⚠ **筆畫的形狀 `getBBox()` 量不到**（不含 stroke），外框要自己算；產生器的「檔案太小＝空圖」門檻因此從位元組改成**看墨佔多少**（角形只有 21%）。⚠ **角形跟著「字」走不是跟著標誌走**：16px 的字配 11px 高 → 5.3px 寬 ——**三顆圖示的基準各不相同**（nogo 34px 寬跟著標誌、話筒 16.8px 寬＝和主鈕標誌同高），**那不是漏改成一致**。⚠⚠ **現況那句話搬到 268px 會折出孤字「診 ↓」**（三個寬度都是）—— 那句是在**診所端後台 348px 的框**裡看的，**再一次證明病人那一側的寬度要自己量**。⚠ 量到：建議那一組 601.5px（仍比現況 615 矮、而且帶著頭圖）、孤字 0、水平溢出 0、JS 錯誤 0。⚠ **切換條收掉三把已定案的尺**（頭圖／24 小時／就診須知，手機一次只放得下四條），**網址參數仍然吃得到**（`?w=box` 把 24 小時放回來）。⚠⚠⚠ **2026-09-04 深夜第五輪：「那一句和按鈕的間隔很大」**（第 **20-14** 節）——⚠⚠⚠ **量出來問題不是「太大」，是「上下一樣大」**：上面（方塊→字面）17.0、下面（字面→按鈕）**18.8**，**下面反而還大一點**，那句話因此浮在正中間、眼睛沒有理由把它歸給按鈕（接近律）。**所以要改的是上下的比例，不是兩邊一起縮** ——**上面那 17.0 一個字都沒動**（它是「就診須知」與「請你回覆」的分界）。尺 `?p=` 量的是**字面到按鈕**：18.8（1.11）／12（0.70）／**8（0.47，預設）**／5（0.29）。⚠⚠ **看得到的距離不等於 `margin`** —— 行高 1.7 讓字面下方多 **4.8px 的半行距**，`margin-top:14` 畫出來是 18.8；margin 由 `calc(var(--ctagap) - 4.8px)` 扣掉，面板每一格現場重量。**通則：「兩個東西看起來多遠」要量墨到墨，不是盒到盒** ——中文的行高把 3~5px 藏在字的上下，寫 margin 的人看不到。⚠ **電話那一句吃同一條規則、跟著一起動**：這張卡有**兩組「一句話＋一顆按鈕」**，間隔不一致會被讀成兩種不同的關係。⚠⚠⚠ **踩到一個坑：自訂屬性不會傳給兄弟** —— 第一版把 `--ctagap` 設在那一句自己身上，而用它的規則是 `.cta + .btn`（作用在**兄弟**上），於是一路退回預設值：**按了沒反應、不報錯、四格量出來一模一樣**（同第九節第 24、25 條那種病，**只有拿數字量才看得出來**）。**通則：一個變數要影響兄弟，就要設在它們的父層。**⚠ 量到：卡片 268.0、高 **585.9**、孤字 0、水平溢出 0、JS 錯誤 0、兩組都是 17.0/8.0；切換條 **24.7%**（「叫他點的那句」那一列的**標籤**縮短才從 27.5% 收回一列，**卡片上的字一個都沒動**）。⚠ **切換條再收掉「掰掰不去囉」那把尺**（他已說「這樣很好」），`?n=text`／`?n=drop` 仍然吃得到。⚠ 稍晚一件：**「突然有事想改時間，請致電診所」改置中**（使用者指定）——改完**兩組「一句話＋一顆按鈕」的排法完全一致**（兩句都置中、兩顆按鈕本來就置中）；只動 `text-align`，高度、折行、間隔一個數字都沒變。⚠⚠⚠ **2026-09-04：頭圖選定並接上**（使用者：「圖片選好了」「用這張圖片　合併成通知提醒頁面」）—— 候診間裡一群人在揮手（病人、家屬、小孩、長輩與診所的人），站上那套手繪語彙。原檔 `drafts/remind-hero-src.jpg`（1376×768），成品 **`preview/line-remind/hero-remind.jpg`（1024×512）**，產圖 `node drafts/channels/remind-hero-crop.mjs`。⚠⚠ **裁法是上 16 / 下 64，不是對稱的 40/40** —— 16:9 收成 2:1 要拿掉 80 列，而**上面幾乎沒有餘裕**（深墨從第 43 列就開始，對半裁只剩 3 列、頭會貼著上緣），**下面每一列都是墨但那是身體與手不是臉**（最低的下巴在第 660 列上下，裁到第 704 列碰不到任何一張臉），**收緊反而讓臉在 268px 上大一點**。四個候選（0/80、16/64、28/52、40/40）**縮到真實的 268px 並排比過**，只有 40/40 看得出頭髮被切、其餘三個分不出來 —— **判準因此回到「餘裕」與「臉的大小」這兩個量得出來的東西**。⚠⚠ **守門不能照抄 `bind-done-hero-crop.mjs`**：那張圖四邊都是紙底，拿「邊緣中位亮度 vs 紙底」就抓得到烘進去的白框；**這一張四邊全是墨**，同一道會一直誤報。改成四道：①長寬比 ②深墨（<120，每列 ≥8 點）離上緣 ≥12 列（臉沒被切）③邊緣要「**又均勻又亮**」才算白框（p95−p5 < 6 且中位 > 紙底−3）④不超過 LINE 的 1024×1024。⚠ **`width`／`height` 屬性一定要寫** —— 不寫的話圖還沒下載完高度是 0，面板會報出一個比實際矮 134px 的卡片。⚠ 接上圖之後五個寬度逐項**和佔位符那一版相同**（卡片 268.0、高 585.9、頭圖 268×134、孤字 0、水平溢出 0、兩組 17.0/8.0）——佔位符本來就是照 `aspect-ratio: 2/1` 預留的。⚠ 切換條那把尺改名「放頭圖」。⚠⚠ **選圖時看著的是這一則自己的條件：耐看** —— 每一次約診都送一次，同一個人一年看很多次；一群人揮手沒有笑點可以用完（綁定完成那張〈創造亞當〉一輩子只出現一次，可以更用力）。⚠ 圖換了就要重跑 `remind-png.mjs`。推導在 `drafts/channels/README.md` 第 **20-15** 節 |
 
 ### 十一之二、⚠⚠ LINE Flex Message 的硬條件（不知道會做出對不上的東西）
 
@@ -2374,6 +2374,7 @@ node drafts/channels/card-png.mjs        # 招呼圖卡的圖片檔（--chat 連
 node drafts/channels/bind-done-png.mjs   # 綁定完成那一則的圖片檔（五張）→ preview/line-bind-done/
 node drafts/channels/remind-png.mjs      # 提醒卡的圖片檔（--old 現況／--chat 聊天室）→ preview/line-remind/
 node drafts/channels/remind-marks.mjs    # 提醒卡那兩顆新標誌（翻過來的 shape-r2c3 ＋ 頁尾的話筒）→ preview/line-remind/
+node drafts/channels/remind-hero-crop.mjs # 提醒卡的頭圖 16:9 → 1024×512 → preview/line-remind/hero-remind.jpg
 node drafts/line-auto-reply/rich.mjs     # 圖文訊息的圖
 ```
 

diff --git a/drafts/channels/README.md b/drafts/channels/README.md
@@ -3033,3 +3033,53 @@ g5   5.0　　　　 0.29　快貼上去了
 #### 2026-09-04 稍晚：「突然有事想改時間，請致電診所」改置中
 
 使用者指定。改完之後**兩組「一句話 ＋ 一顆按鈕」的排法完全一致**：兩句都置中、兩顆按鈕本來就置中。⚠ 只動 `text-align`，**高度、折行、間隔一個數字都沒變**（585.9px、孤字 0、兩組仍是 17.0/8.0）。
+
+### 20-15　2026-09-04：**頭圖選定並接上**（「圖片選好了」「用這張圖片　合併成通知提醒頁面」）
+
+使用者自己出的圖：**候診間裡一群人在揮手** —— 病人、家屬、小孩、長輩和診所的人
+擠在同一個畫面裡，站上那套手繪語彙（有膚色、眉毛、鼻子、有表情的嘴）。
+原檔進版控 `drafts/remind-hero-src.jpg`（1376×768，16:9），
+成品 **`preview/line-remind/hero-remind.jpg`（1024×512）**，
+產圖 `node drafts/channels/remind-hero-crop.mjs`。
+
+⚠⚠ **選圖時看著的是這一則自己的條件：耐看。** 這一則**每一次約診都送一次**，
+同一個人一年會看到很多次 —— 和綁定完成那張〈創造亞當〉不同（那張一輩子只出現一次，
+可以更用力）。**一群人揮手沒有笑點可以用完**，這一點是對的。
+
+#### ⚠⚠ 裁法是 **上 16 / 下 64**，不是對稱的 40/40
+
+16:9 收成 2:1 要拿掉 80 列。掃過原檔的墨才定的，兩個理由：
+
+| | |
+| --- | --- |
+| **上面幾乎沒有餘裕** | 深墨（人物的線稿，L<120）從第 **43** 列就開始（左上那位先生的頭髮）。裁 40 只剩 3 列、頭幾乎貼著上緣。裁 16 之後留 27 列 ＝ 成品的 **4.1%**，和原檔的 5.7% 同一個量級 |
+| **下面每一列都是墨，但那是身體與手不是臉** | 逐列量，第 648~766 列每一列都有 ~470 個暗像素，可是最低的下巴在第 **660** 列上下 —— 裁 64（到第 704 列）**碰不到任何一張臉**，只收掉前排小孩的衣服與手掌下緣，而那一截在原檔裡本來就已經被切過了。**收緊反而讓臉在 268px 上大一點** |
+
+⚠ 四個候選（0/80、16/64、28/52、40/40）**縮到真實的 268px 並排比過**：
+只有 40/40 看得出頭髮被切，其餘三個在那個尺寸下幾乎分不出來 ——
+所以判準回到「餘裕」與「臉的大小」這兩個**量得出來**的東西，不是目測。
+
+#### ⚠⚠ 守門和 `bind-done-hero-crop.mjs` 那支**不一樣**，不要照抄
+
+那張圖四邊都是紙底，所以拿「邊緣中位亮度 vs 紙底」就抓得到烘進去的白框；
+**這一張四邊全是墨**（人物一路頂到邊），同一道會一直誤報。改成四道：
+
+1. **長寬比**：`W × H_OUT === sh × W_OUT`，不然縮放會把人拉長。
+2. **臉有沒有被切**：深墨（<120，每列至少 8 個）離上緣要 ≥ 12 列。
+3. **烘進去的白框**：那一條邊要「**又均勻又亮**」才算（p95−p5 < 6 且中位 > 紙底−3）——
+   單看亮度會誤報，單看均勻度也會。
+4. **LINE 對 Flex 的 `image` 明文寫著最大 1024×1024**。
+
+#### 量到的（接上圖之後，五個寬度 430／393／390／375／360 全部相同）
+
+```
+卡片 268.0　高 585.9px　頭圖 268×134　孤字 0　水平溢出 0　JS 錯誤 0
+那一句 上 17.0 / 下 8.0　電話那句 上 17.0 / 下 8.0
+```
+
+⚠ **和佔位符那一版逐項相同** —— 佔位符本來就是照 `aspect-ratio: 2/1` 預留的，
+所以接上真圖高度不會變。**`width`／`height` 屬性一定要寫**：不寫的話圖還沒下載完
+高度是 0，面板會報出一個比實際矮 134px 的卡片。
+
+⚠ 切換條那把尺的名字從「預留位置」改成「**放頭圖**」（`?h=y`／`?h=n`）。
+⚠ 圖換了就要重跑 `remind-png.mjs`（那兩張圖拍的是提案頁自己那張卡）。
